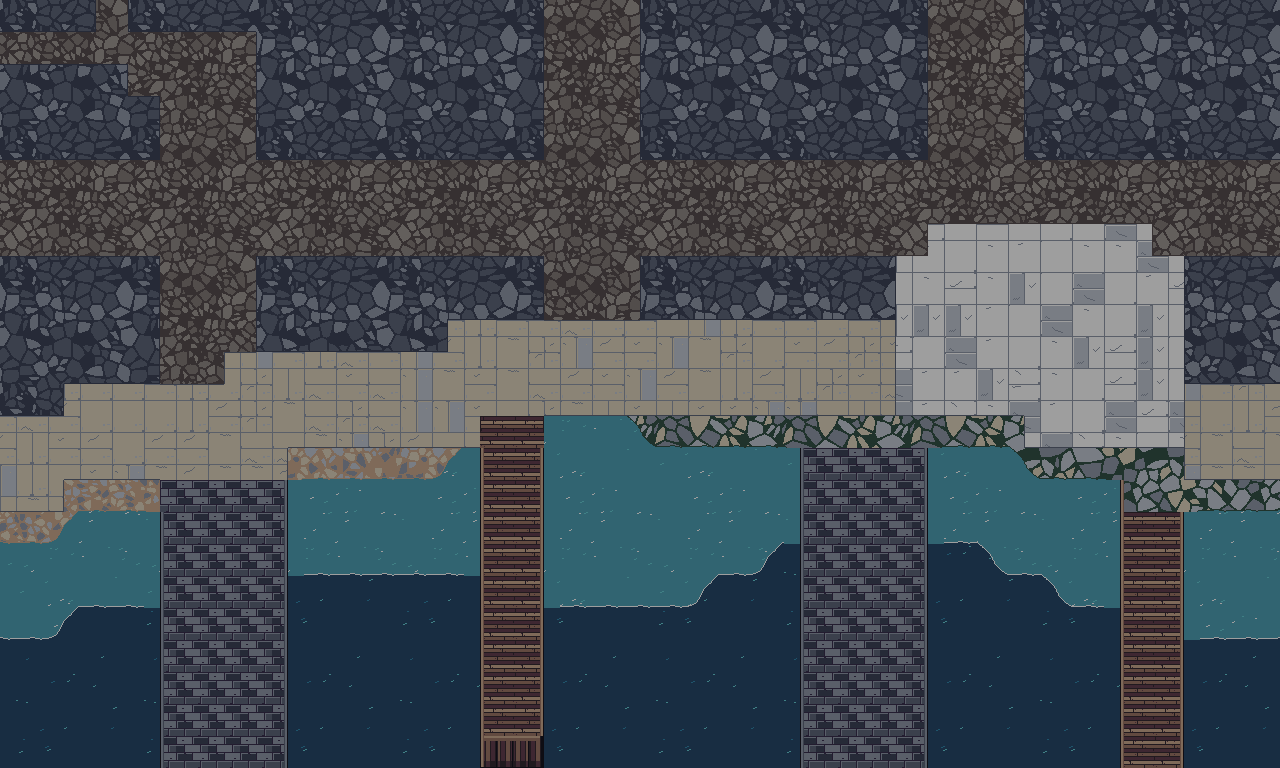
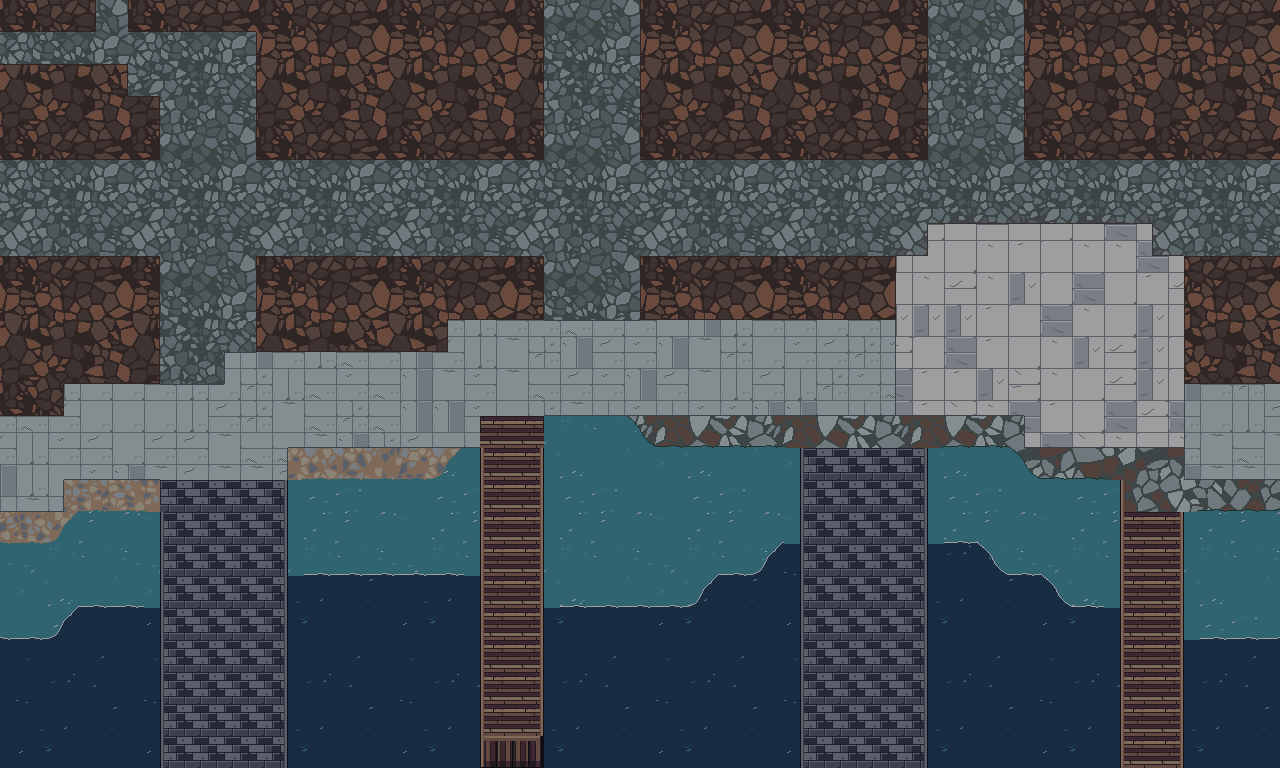
Modalita' cupa, story 2: rampe cupe dei terreni di ogni regione dalle palette delle concept
Claude-Session: https://claude.ai/code/session_014ycMSkFAn8ixUvbSfrqtAR

Changed region(s): [[0.0, 0.0, 1.0, 0.6875]]

diff --git a/tools/art/forge3d/terrain.py b/tools/art/forge3d/terrain.py
@@ -62,6 +62,7 @@ def _quant(field, ramp, dither=0.0, S=TILE):
 MACRO_OK = ("waves", "tufts", "leaves", "dots", "pebbles", "puddles", "cobbles", "sparkle", "embers", "dunes", "fog",
             "roots")
 
+# ramp_cupo (opzionale): la rampa nella modalita' cupa, dalla palette della concept della sua regione (forge3d/tema.py)
 # nome: (ramp scuro->chiaro, periodo rumore, contrasto, dither, dettaglio, livello)
 TERRAINS = {
     "deep_water": dict(onde=420, ramp=["navy", "blue_d", "blue_d", "blue"], period=3, dither=0.5, detail="waves", rim=None, level=0, anim=4),
@@ -80,15 +81,15 @@ TERRAINS = {
     "forest": dict(ramp=["teal_d", "green_d", "green_d", "green_m"], period=4, dither=0.5, detail="leaves", rim="dark", rimc="teal_d", level=6, contrast=0.45),
     "dirt": dict(ramp=["brown_d", "brown", "brown", "orange_d"], period=4, dither=0.6, detail="pebbles", rim="dark", level=7, contrast=0.45),
     "path": dict(ramp=["brown_d", "brown", "#c9946a", "#dcb68a"], period=5, dither=0.6, detail="pebbles", rim="dark", rimc="brown_d", level=8, contrast=0.45),
-    "stone": dict(bordo="dritto", ramp=["slate_d", "slate", "slate", "grey"], period=3, dither=0.5, detail="cobbles", rim="cliff", level=9),
-    "snow": dict(macro=8, ramp=["grey", "grey_l", "white", "white", "white"], period=2, dither=0.4, detail="dunes", rim="light",
+    "stone": dict(bordo="dritto", ramp=["slate_d", "slate", "slate", "grey"], ramp_cupo=["#2e2524", "#3e3330", "#52403b", "#6b4a3e"], period=3, dither=0.5, detail="cobbles", rim="cliff", level=9),
+    "snow": dict(macro=8, ramp=["grey", "grey_l", "white", "white", "white"], ramp_cupo=["#393753", "#52435a", "#737076", "#8a8084", "#939398"], period=2, dither=0.4, detail="dunes", rim="light",
                  rimc="grey", level=10, contrast=0.32),
     # --- Mirwada (US-8B11b). Livelli con la virgola: si inseriscono tra quelli sopra senza rinumerarli ---
     "ciottoli_spiaggia": dict(ramp=["tan", "grey", "grey_l", "cream"], period=4, dither=0.4, detail="cobbles", cells=16,
                               rim="dark", rimc="tan", level=2.5),
-    "filari": dict(ramp=["brown_dd", "brown_d", "brown_d", "brown"], period=4, dither=0.5, detail="rows", rim="dark",
+    "filari": dict(ramp=["brown_dd", "brown_d", "brown_d", "brown"], ramp_cupo=["#1e1e1e", "#323131", "#323131", "#52403b"], period=4, dither=0.5, detail="rows", rim="dark",
                    rimc="brown_dd", level=5.5, contrast=0.3, accent=["green_m", "green"]),
-    "lastricato_antico": dict(ramp=["green_d", "grey", "grey_l", "cream"], period=4, dither=0.4, detail="cobbles", cells=5,
+    "lastricato_antico": dict(ramp=["green_d", "grey", "grey_l", "cream"], ramp_cupo=["#3e4546", "#52403b", "#6f797d", "#848e91"], period=4, dither=0.4, detail="cobbles", cells=5,
                               rim="dark", rimc="green_d", level=8.2),
     "ghiaia": dict(ramp=["slate", "grey", "grey_l", "white"], period=4, dither=0.6, detail="pebbles", rim="dark", rimc="grey",
                    level=8.3, contrast=0.15),
@@ -96,9 +97,9 @@ TERRAINS = {
                   rimc="slate", level=8.4, contrast=0.4, varianti=8, fuga="grey"),
     # selciato di Mirwada: grigio caldo e poco contrastato (revisione 1.1: il blu-ardesia era il colore del cappotto
     # di Enel, che ci spariva sopra). Grigi caldi = colori extra della rampa
-    "ciottoli_scuri": dict(bordo="dritto", ramp=["#5e4b4a", "#8a7b72", "#978a80", "#a4988e"], period=4, dither=0.4,
+    "ciottoli_scuri": dict(bordo="dritto", ramp=["#5e4b4a", "#8a7b72", "#978a80", "#a4988e"], ramp_cupo=["#3e4546", "#4f5759", "#5d696e", "#6f797d"], period=4, dither=0.4,
                            detail="cobbles", cells=12, rim="dark", rimc="#5e4b4a", level=8.6),
-    "lastre_chiare": dict(bordo="dritto", ramp=["grey", "grey_l", "cream", "cream"], period=4, dither=0.4, detail="slabs", slab=(2, 2),
+    "lastre_chiare": dict(bordo="dritto", ramp=["grey", "grey_l", "cream", "cream"], ramp_cupo=["#4f5759", "#6f797d", "#848e91", "#848e91"], period=4, dither=0.4, detail="slabs", slab=(2, 2),
                           rim="dark", rimc="slate", level=8.8, contrast=0.5, varianti=8, fuga="grey"),
     "molo_pietra": dict(bordo="dritto", ramp=["navy", "slate_d", "slate", "grey"], period=4, dither=0.4, detail="slabs", rim="cliff",
                         rimc="navy", level=9.2, contrast=0.5),
@@ -140,21 +141,21 @@ TERRAINS = {
                    rimc="brown_dd", level=3.2, contrast=0.25, accent=["teal_d", "green_m"]),
     "erba_argentata": dict(ramp=["slate", "grey", "grey_l", "white"], period=4, dither=0.5, detail="tufts", rim="dark",
                            rimc="slate", level=4.2, contrast=0.4),
-    "erica_secca": dict(ramp=["brown_dd", "brown_d", "brown_d", "purple"], period=4, dither=0.5, detail="tufts", rim="dark",
+    "erica_secca": dict(ramp=["brown_dd", "brown_d", "brown_d", "purple"], ramp_cupo=["#303049", "#503943", "#503943", "#9e5438"], period=4, dither=0.5, detail="tufts", rim="dark",
                         rimc="brown_dd", level=5.2, contrast=0.4),
-    "felci": dict(ramp=["teal_d", "green_d", "green_m", "green"], period=4, dither=0.5, detail="leaves", rim="dark",
+    "felci": dict(ramp=["teal_d", "green_d", "green_m", "green"], ramp_cupo=["#232a24", "#2f382f", "#4d5a48", "#616f5b"], period=4, dither=0.5, detail="leaves", rim="dark",
                   rimc="teal_d", level=6.2, contrast=0.4),
-    "radici_muschio": dict(macro=8, ramp=["teal_d", "green_d", "green_m", "green_m"], period=4, dither=0.5, detail="roots",
+    "radici_muschio": dict(macro=8, ramp=["teal_d", "green_d", "green_m", "green_m"], ramp_cupo=["#232a24", "#2f382f", "#3d483a", "#3d483a"], period=4, dither=0.5, detail="roots",
                            rim="dark", rimc="teal_d", level=6.4, contrast=0.4, accent=["brown_dd", "brown_d"]),
-    "muschio_scuro": dict(ramp=["ink", "teal_d", "teal_d", "green_d"], period=4, dither=0.5, detail="dots", rim="dark",
+    "muschio_scuro": dict(ramp=["ink", "teal_d", "teal_d", "green_d"], ramp_cupo=["#201d1b", "#303049", "#303049", "#393753"], period=4, dither=0.5, detail="dots", rim="dark",
                           rimc="ink", level=6.6, contrast=0.4),
-    "pietrisco": dict(ramp=["brown_dd", "brown_d", "brown_d", "skin_m"], period=4, dither=0.6, detail="pebbles", rim="dark",
+    "pietrisco": dict(ramp=["brown_dd", "brown_d", "brown_d", "skin_m"], ramp_cupo=["#3b291d", "#503943", "#503943", "#915532"], period=4, dither=0.6, detail="pebbles", rim="dark",
                       rimc="brown_dd", level=7.2, contrast=0.15),
-    "terra_bruciata": dict(ramp=["ink", "brown_dd", "brown_dd", "slate_d"], period=4, dither=0.5, detail="dots", rim="dark",
+    "terra_bruciata": dict(ramp=["ink", "brown_dd", "brown_dd", "slate_d"], ramp_cupo=["#201d1b", "#3b291d", "#3b291d", "#393753"], period=4, dither=0.5, detail="dots", rim="dark",
                            rimc="ink", level=7.4, contrast=0.4),
     # vista dall'alto: lastre di roccia spaccate (le strisce sono della PARETE, forge3d/pareti.py: se la cima avesse
     # le strisce non si capirebbe dove finisce il pianoro e comincia la parete)
-    "arenaria": dict(ramp=["brown_dd", "brown_d", "brown", "rust"], period=4, dither=0.4, detail="cobbles", cells=5,
+    "arenaria": dict(ramp=["brown_dd", "brown_d", "brown", "rust"], ramp_cupo=["#3b291d", "#5a3823", "#703f36", "#b34e20"], period=4, dither=0.4, detail="cobbles", cells=5,
                      rim="dark", rimc="brown_dd", level=9.0, contrast=0.6),
 }
 for _d in TERRAINS.values():                              # texture grande 4x4 tile dove il dettaglio lo consente:
